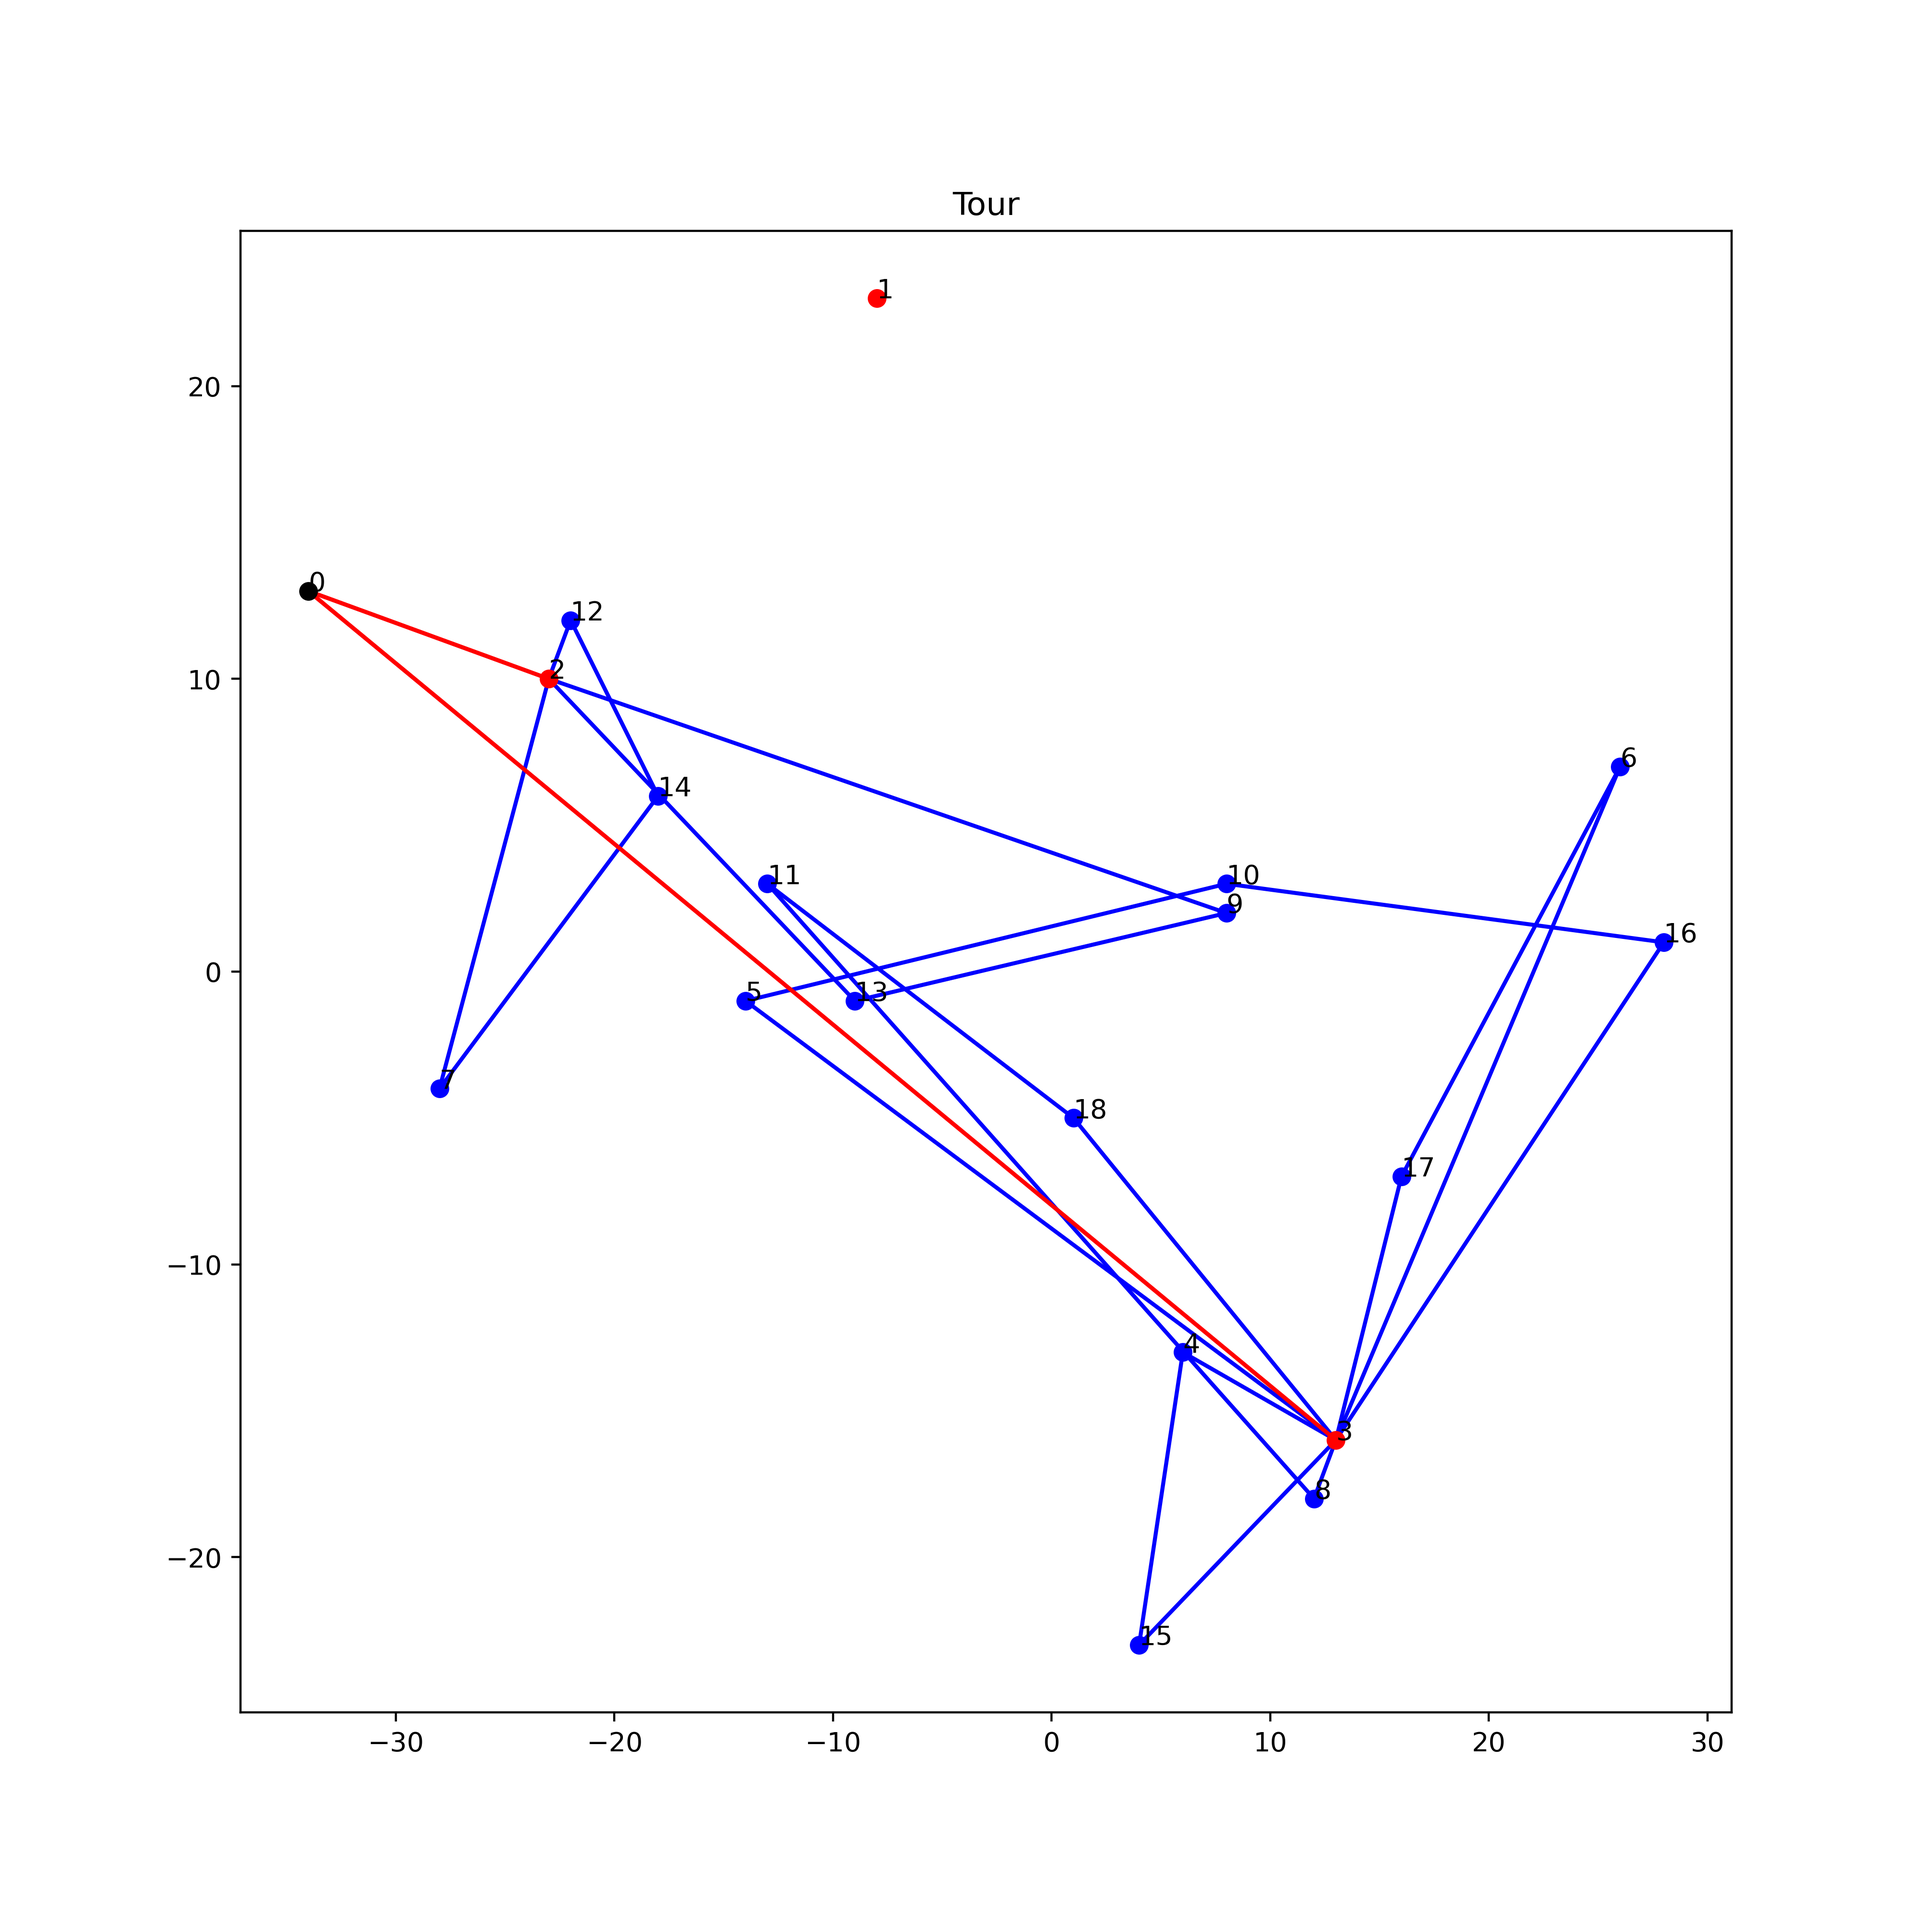
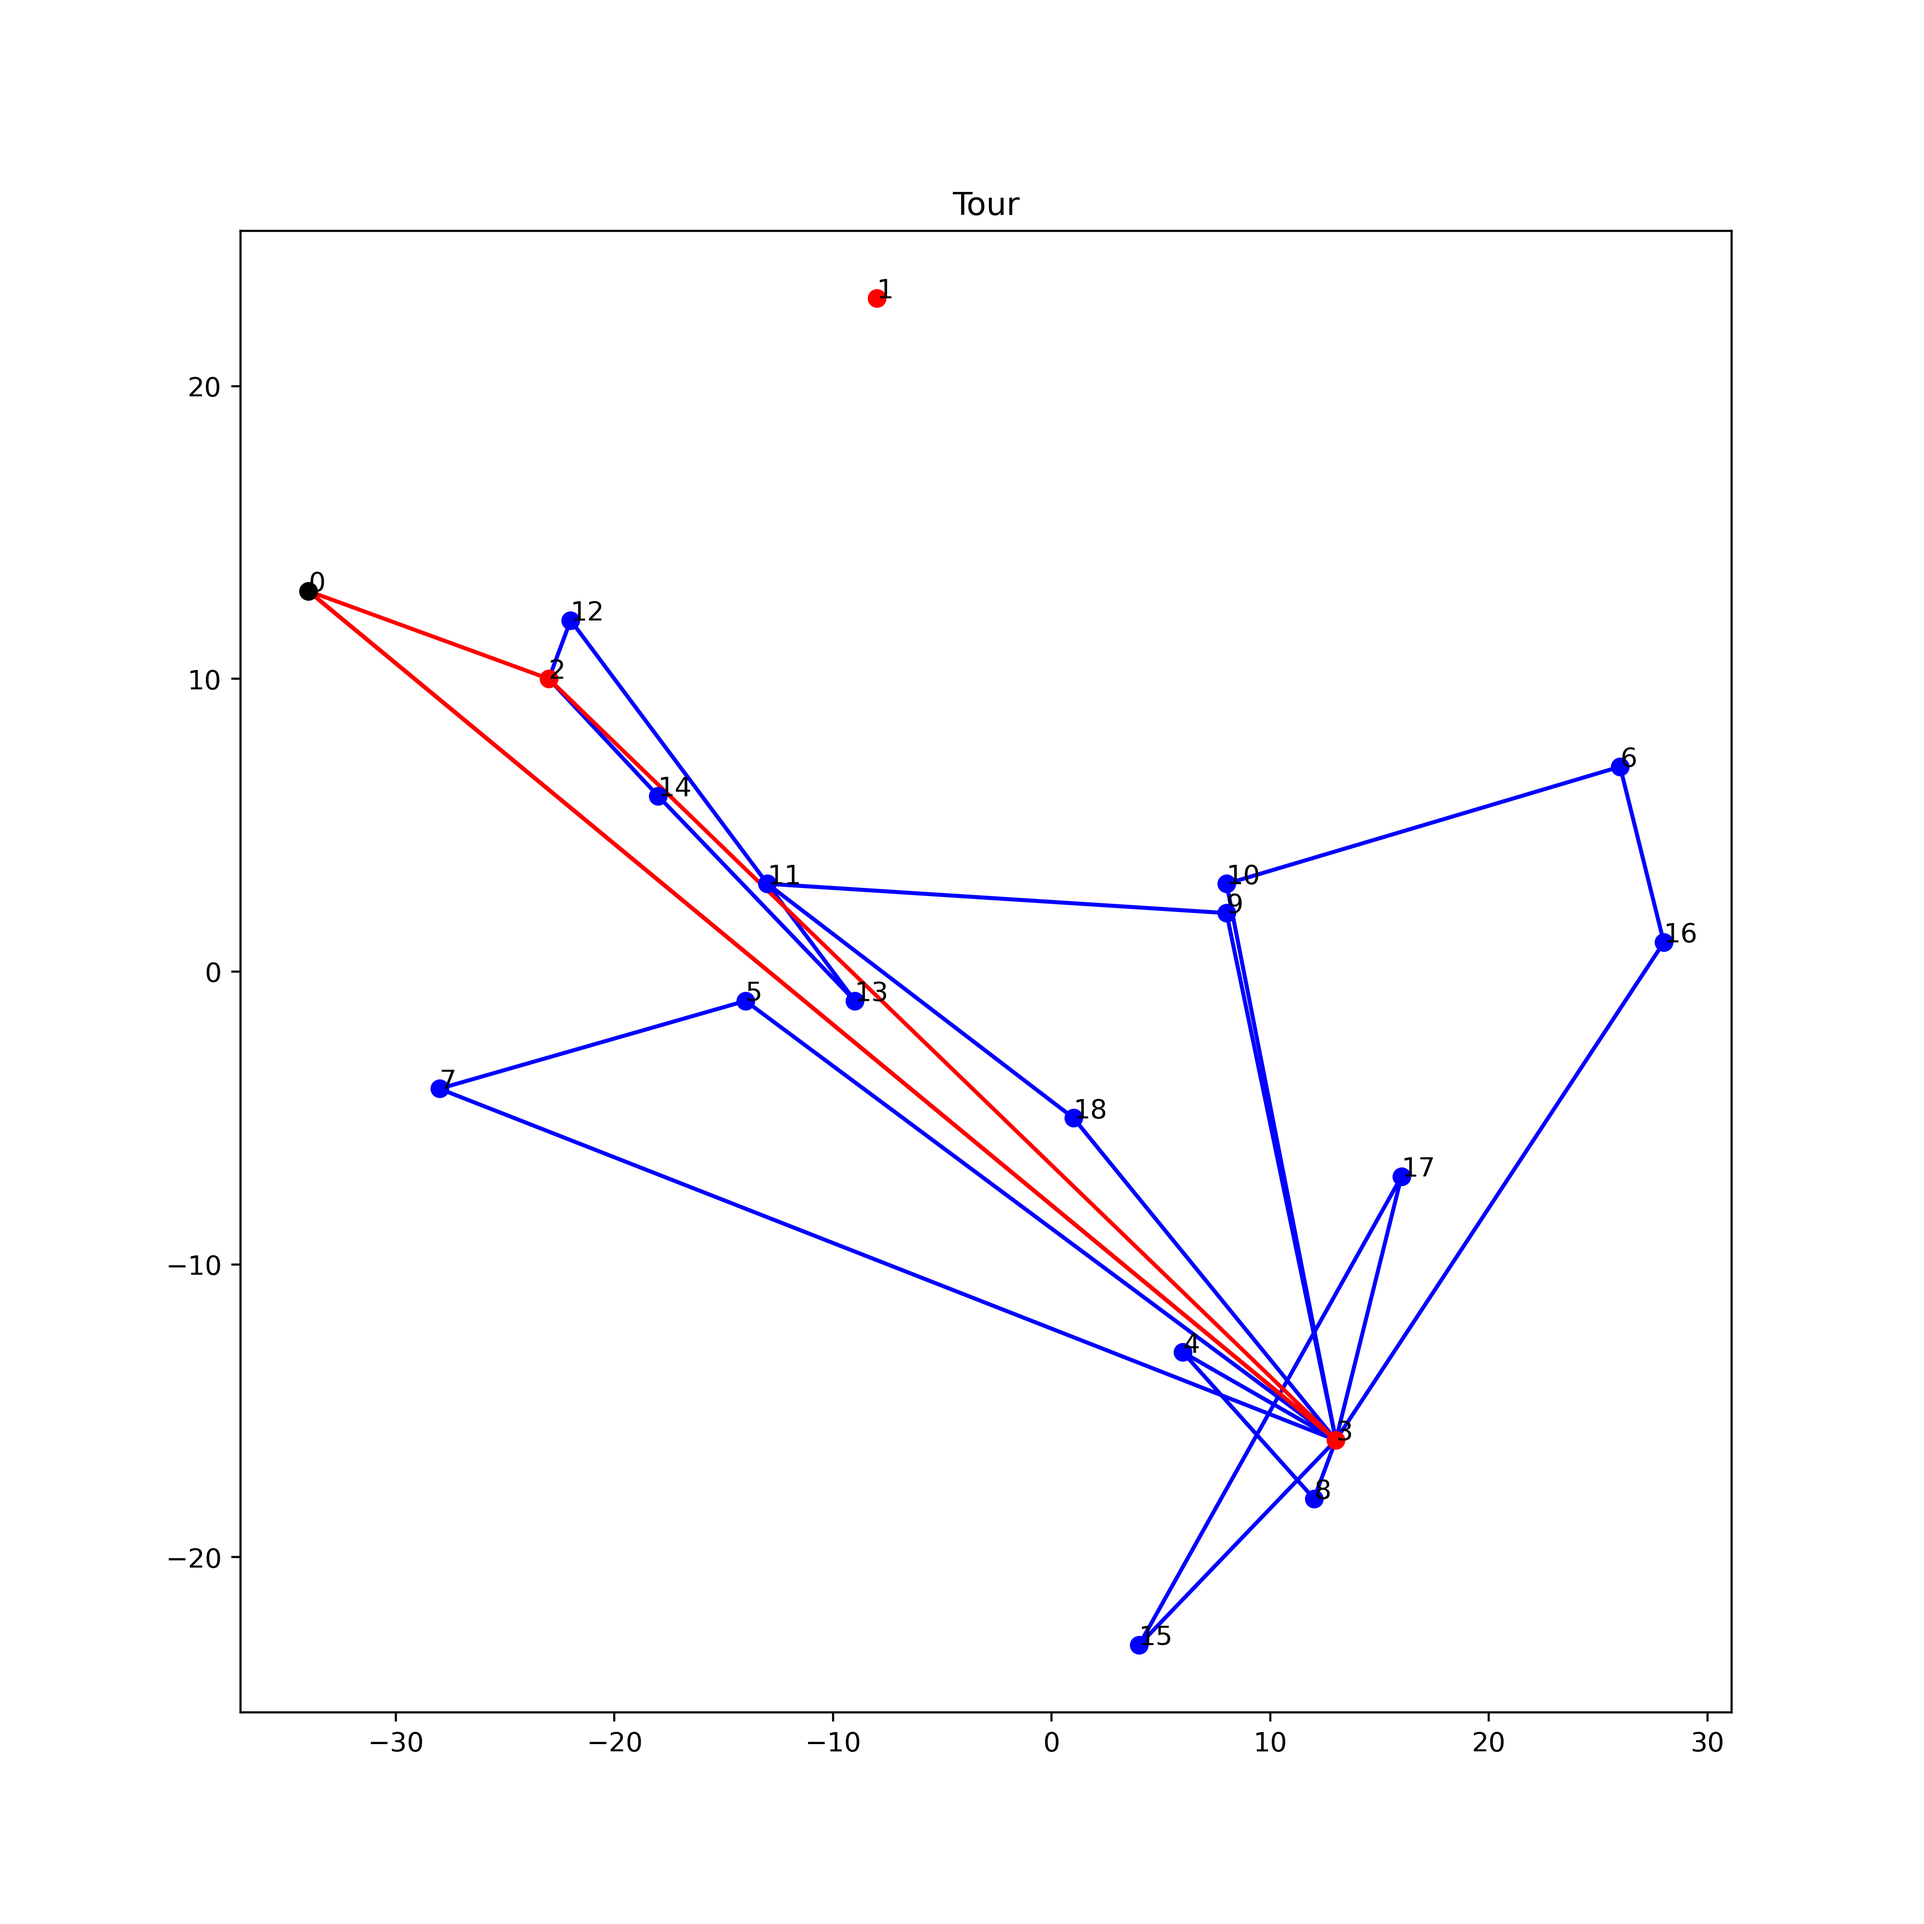
simulated annealing

diff --git a/ALNS.py b/ALNS.py
@@ -6,6 +6,7 @@ from Solution import Solution
 from random import Random
 import copy
 import time
+import math
 
 
 class Parameters:
@@ -16,6 +17,8 @@ class Parameters:
     minSizeNBH = 1  # minimum neighborhood size
     maxSizeNBH = 20  # maximum neighborhood size
     randomSeed = 1  # value of the random seed
+    T = 1 # Temperature for Simulated Annealing
+    Cool = 0.99 # Cooling rate
     # can add parameters such as cooling rate etc.
 
 
@@ -115,14 +118,21 @@ class ALNS:
             self.currentSolution = copy.deepcopy(self.tempSolution)
             print("Found new global best solution.")
             score = 2
+            Parameters.T = Parameters.Cool*Parameters.T
             return score
         
-        # currently, we only accept better solutions, no simulated annealing
-        if self.tempSolution.cost<self.currentSolution.cost:
-            self.currentSolution = copy.deepcopy(self.tempSolution)
-            score = 1
-            return score
-        
+        else:
+            diff = self.tempSolution.cost - self.currentSolution.cost
+            prob = math.exp(-diff/Parameters.T)
+            p = self.randomGen.random()
+            Parameters.T = Parameters.Cool*Parameters.T
+            if p < prob:
+                self.currentSolution = copy.deepcopy(self.tempSolution)
+                score = 1
+                return score
+            else:
+                score = 0
+                return score
         # if we did not accept the new solution, we do not update the current solution
         score = 0
         return score
